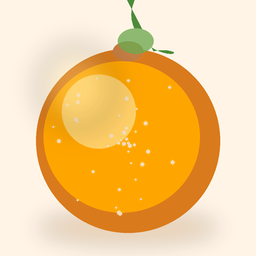
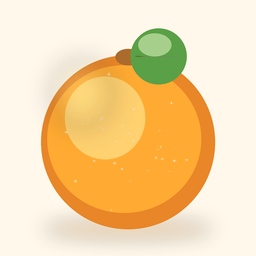
可爱橘子图标 + 默认首页改为每日计划

diff --git a/index.html b/index.html
@@ -331,8 +331,8 @@
   <div class="app-container">
     <div class="sidebar">
       <div class="sidebar-item" data-view="profile"><div class="sidebar-icon" style="background:#FFF4E6;">🍊</div></div>
-      <div class="sidebar-item" data-view="plan"><div class="sidebar-icon">📅</div><div class="sidebar-label">每日计划</div></div>
-      <div class="sidebar-item active" data-view="inspire"><div class="sidebar-icon">💡</div><div class="sidebar-label">选题灵感</div></div>
+      <div class="sidebar-item active" data-view="plan"><div class="sidebar-icon">📅</div><div class="sidebar-label">每日计划</div></div>
+      <div class="sidebar-item" data-view="inspire"><div class="sidebar-icon">💡</div><div class="sidebar-label">选题灵感</div></div>
       <div class="sidebar-item" data-view="hot"><div class="sidebar-icon">🔥</div><div class="sidebar-label">热点二创</div></div>
       <div class="sidebar-item" data-view="review"><div class="sidebar-icon">📊</div><div class="sidebar-label">内容复盘</div></div>
       <div class="sidebar-item" data-view="study"><div class="sidebar-icon">🎓</div><div class="sidebar-label">英语学习</div></div>
@@ -343,7 +343,7 @@
     <div class="main-content">
 
       <!-- 选题灵感 -->
-      <div class="view active" id="view-inspire">
+      <div class="view" id="view-inspire">
         <div class="energy-card">
           <div class="energy-emoji" id="energyEmoji">☀</div>
           <div class="energy-text" id="energyText">今天也是闪闪发光的一天！</div>
@@ -358,7 +358,7 @@
       </div>
 
       <!-- 每日计划 -->
-      <div class="view" id="view-plan">
+      <div class="view active" id="view-plan">
         <div class="header-card">
           <div class="header-top">
             <div>
